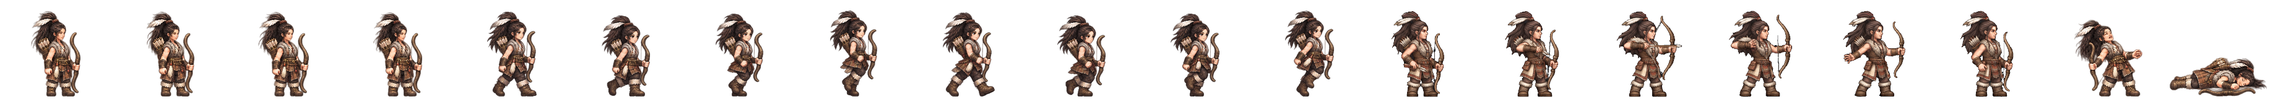
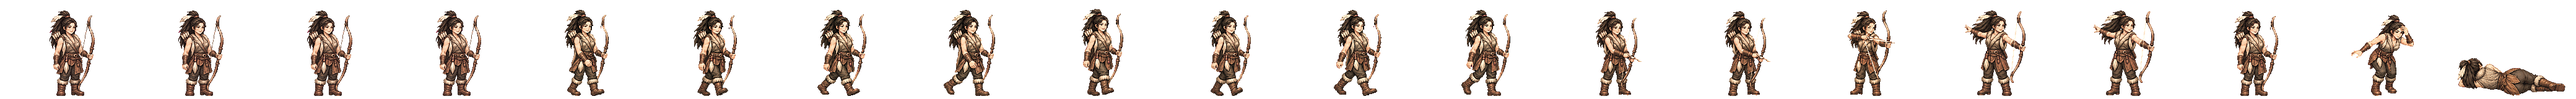
사로 단비 · 마가 달리 새 전투 띠를 게임에 (그림 API 판 + Codex 고친 칸)
- 단비: 걷기를 Codex 로 다시 받음(K3 · 그림 API 판은 시위가 점선으로 끊김). 새 판도 몇 칸은 시위가 흐리게 끊겨 보인다(게임 크기 가는 선) — 남은 흠
- 달리: 당김 칸 시위 고치기(K4)는 거절됐지만, 앞서 얹은 고친 칸을 게임 크기로 다시 보니 아랫시위가 활 아래끝에서 끝나 그대로 씀
- 맞음 칸은 활이 짧아져 뺌. 띠 판정 둘 다 합격(달리 경고: 공격 끝 −10px). 시험 2167 통과.

Claude-Session: https://claude.ai/code/session_01TRiuN7s6aDfSnaHxrkctmU

Changed region(s): [[0.0, 0.0938, 1.0, 1.0]]

diff --git a/src/realm/data/spritePx.ts b/src/realm/data/spritePx.ts
@@ -1,3 +1,3 @@
 /** public/realm/anim-px/manifest.json 의 사본 — tools/sprite-normalize.mjs 가 만든다 (손으로 고치지 말 것). 칸 [가로, 세로] · feet = 발 줄(칸 위에서 y) · bodyPx = 서 있는 몸 키 */
 import { expandManifest } from './sprite-manifest.ts'
-export const SPRITE_PX: Readonly<Record<string, { readonly cell: readonly [number, number]; readonly feet: number; readonly bodyPx: number; readonly kind: 'general' | 'soldier' | 'folk' | 'crowd'; readonly cells: number }>> = expandManifest<{ readonly cell: readonly [number, number]; readonly feet: number; readonly bodyPx: number; readonly kind: 'general' | 'soldier' | 'folk' | 'crowd'; readonly cells: number }>([{"cell":[166,128],"feet":126,"bodyPx":124,"kind":"soldier","cells":20},{"cell":[116,128],"feet":126,"bodyPx":117,"kind":"soldier","cells":20},{"cell":[127,128],"feet":126,"bodyPx":116,"kind":"soldier","cells":20},{"cell":[269,128],"feet":126,"bodyPx":126,"kind":"soldier","cells":20},{"cell":[503,128],"feet":126,"bodyPx":127,"kind":"soldier","cells":20},{"cell":[614,128],"feet":126,"bodyPx":126,"kind":"soldier","cells":20},{"cell":[200,160],"feet":156,"bodyPx":138,"kind":"general","cells":20},{"cell":[208,160],"feet":155,"bodyPx":138,"kind":"general","cells":20},{"cell":[208,160],"feet":154,"bodyPx":138,"kind":"general","cells":20},{"cell":[304,160],"feet":155,"bodyPx":135,"kind":"general","cells":20},{"cell":[184,160],"feet":156,"bodyPx":138,"kind":"general","cells":20},{"cell":[208,160],"feet":154,"bodyPx":136,"kind":"general","cells":20},{"cell":[232,160],"feet":156,"bodyPx":138,"kind":"general","cells":20},{"cell":[208,160],"feet":156,"bodyPx":138,"kind":"general","cells":20},{"cell":[168,160],"feet":156,"bodyPx":124,"kind":"general","cells":20},{"cell":[216,160],"feet":156,"bodyPx":130,"kind":"general","cells":20},{"cell":[200,160],"feet":156,"bodyPx":116,"kind":"general","cells":20},{"cell":[192,160],"feet":156,"bodyPx":138,"kind":"general","cells":20},{"cell":[200,160],"feet":156,"bodyPx":135,"kind":"general","cells":20},{"cell":[280,160],"feet":156,"bodyPx":138,"kind":"general","cells":20},{"cell":[232,160],"feet":155,"bodyPx":138,"kind":"general","cells":20},{"cell":[232,160],"feet":156,"bodyPx":134,"kind":"general","cells":20},{"cell":[144,160],"feet":156,"bodyPx":70,"kind":"general","cells":20},{"cell":[208,160],"feet":156,"bodyPx":70,"kind":"general","cells":20},{"cell":[192,160],"feet":156,"bodyPx":70,"kind":"general","cells":20},{"cell":[240,160],"feet":155,"bodyPx":138,"kind":"general","cells":20},{"cell":[160,160],"feet":156,"bodyPx":135,"kind":"general","cells":20},{"cell":[192,160],"feet":156,"bodyPx":128,"kind":"general","cells":20},{"cell":[224,160],"feet":155,"bodyPx":138,"kind":"general","cells":20},{"cell":[232,160],"feet":156,"bodyPx":139,"kind":"general","cells":20},{"cell":[216,160],"feet":156,"bodyPx":138,"kind":"general","cells":20},{"cell":[208,160],"feet":156,"bodyPx":134,"kind":"general","cells":20},{"cell":[176,160],"feet":156,"bodyPx":130,"kind":"general","cells":20},{"cell":[248,160],"feet":156,"bodyPx":138,"kind":"general","cells":20},{"cell":[248,160],"feet":155,"bodyPx":138,"kind":"general","cells":20},{"cell":[192,160],"feet":155,"bodyPx":138,"kind":"general","cells":20},{"cell":[192,160],"feet":156,"bodyPx":124,"kind":"general","cells":20},{"cell":[208,160],"feet":154,"bodyPx":131,"kind":"general","cells":20},{"cell":[256,160],"feet":156,"bodyPx":138,"kind":"general","cells":20},{"cell":[240,160],"feet":156,"bodyPx":138,"kind":"general","cells":20},{"cell":[232,160],"feet":156,"bodyPx":73,"kind":"general","cells":20},{"cell":[256,160],"feet":155,"bodyPx":138,"kind":"general","cells":20},{"cell":[264,160],"feet":156,"bodyPx":138,"kind":"general","cells":20},{"cell":[224,160],"feet":156,"bodyPx":138,"kind":"general","cells":20},{"cell":[224,160],"feet":156,"bodyPx":128,"kind":"general","cells":20},{"cell":[176,160],"feet":156,"bodyPx":129,"kind":"general","cells":20},{"cell":[208,160],"feet":154,"bodyPx":139,"kind":"general","cells":20},{"cell":[208,160],"feet":156,"bodyPx":132,"kind":"general","cells":20},{"cell":[208,160],"feet":154,"bodyPx":137,"kind":"general","cells":20},{"cell":[184,160],"feet":156,"bodyPx":122,"kind":"general","cells":20},{"cell":[176,160],"feet":156,"bodyPx":138,"kind":"general","cells":20},{"cell":[280,160],"feet":155,"bodyPx":133,"kind":"general","cells":20},{"cell":[176,160],"feet":156,"bodyPx":70,"kind":"general","cells":20},{"cell":[186,128],"feet":126,"bodyPx":127,"kind":"soldier","cells":20},{"cell":[298,128],"feet":126,"bodyPx":126,"kind":"soldier","cells":20},{"cell":[82,128],"feet":126,"bodyPx":114,"kind":"folk","cells":8},{"cell":[134,128],"feet":126,"bodyPx":119,"kind":"soldier","cells":20},{"cell":[380,128],"feet":126,"bodyPx":124,"kind":"soldier","cells":20},{"cell":[114,128],"feet":126,"bodyPx":115,"kind":"soldier","cells":20},{"cell":[122,128],"feet":126,"bodyPx":114,"kind":"soldier","cells":20},{"cell":[254,128],"feet":126,"bodyPx":128,"kind":"soldier","cells":20},{"cell":[438,128],"feet":126,"bodyPx":126,"kind":"soldier","cells":20},{"cell":[88,128],"feet":126,"bodyPx":113,"kind":"folk","cells":8},{"cell":[100,128],"feet":126,"bodyPx":115,"kind":"folk","cells":8},{"cell":[108,128],"feet":126,"bodyPx":115,"kind":"folk","cells":8},{"cell":[63,128],"feet":126,"bodyPx":113,"kind":"folk","cells":8},{"cell":[69,96],"feet":96,"bodyPx":96,"kind":"crowd","cells":1},{"cell":[54,96],"feet":96,"bodyPx":96,"kind":"crowd","cells":1},{"cell":[47,96],"feet":96,"bodyPx":96,"kind":"crowd","cells":1},{"cell":[49,96],"feet":96,"bodyPx":96,"kind":"crowd","cells":1},{"cell":[57,96],"feet":96,"bodyPx":96,"kind":"crowd","cells":1},{"cell":[55,96],"feet":96,"bodyPx":96,"kind":"crowd","cells":1},{"cell":[45,96],"feet":96,"bodyPx":96,"kind":"crowd","cells":1},{"cell":[53,96],"feet":96,"bodyPx":96,"kind":"crowd","cells":1},{"cell":[64,96],"feet":96,"bodyPx":96,"kind":"crowd","cells":1},{"cell":[184,160],"feet":156,"bodyPx":124,"kind":"general","cells":20},{"cell":[184,160],"feet":156,"bodyPx":134,"kind":"general","cells":20},{"cell":[224,160],"feet":156,"bodyPx":133,"kind":"general","cells":20},{"cell":[192,160],"feet":156,"bodyPx":135,"kind":"general","cells":20},{"cell":[184,160],"feet":156,"bodyPx":137,"kind":"general","cells":20},{"cell":[216,160],"feet":156,"bodyPx":134,"kind":"general","cells":20},{"cell":[216,160],"feet":156,"bodyPx":132,"kind":"general","cells":20},{"cell":[288,160],"feet":156,"bodyPx":138,"kind":"general","cells":20},{"cell":[192,160],"feet":156,"bodyPx":118,"kind":"general","cells":20},{"cell":[208,160],"feet":154,"bodyPx":134,"kind":"general","cells":20},{"cell":[208,160],"feet":154,"bodyPx":128,"kind":"general","cells":20},{"cell":[240,160],"feet":156,"bodyPx":128,"kind":"general","cells":20},{"cell":[184,160],"feet":156,"bodyPx":132,"kind":"general","cells":20},{"cell":[208,160],"feet":156,"bodyPx":123,"kind":"general","cells":20},{"cell":[176,160],"feet":156,"bodyPx":116,"kind":"general","cells":20},{"cell":[272,160],"feet":156,"bodyPx":138,"kind":"general","cells":20},{"cell":[176,160],"feet":156,"bodyPx":122,"kind":"general","cells":20},{"cell":[232,160],"feet":156,"bodyPx":127,"kind":"general","cells":20},{"cell":[168,160],"feet":156,"bodyPx":138,"kind":"general","cells":20},{"cell":[176,160],"feet":156,"bodyPx":137,"kind":"general","cells":20},{"cell":[184,160],"feet":156,"bodyPx":133,"kind":"general","cells":20}],[["axe",0],["bandit-chief",1],["bandit-club",2],["boat",3],["bow",4],["crossbow",5],["gen-adogan",6],["gen-alpyeong",7],["gen-ara",8],["gen-areum",8],["gen-aryeong",9],["gen-bakdal",6],["gen-baram",8],["gen-bdanbi",10],["gen-beom",11],["gen-beombal",8],["gen-beomi",8],["gen-bira",12],["gen-biryu",13],["gen-budeul",8],["gen-byeol",8],["gen-daemusin",14],["gen-daeso",15],["gen-dallae2",10],["gen-dalli",10],["gen-damul",16],["gen-danbi",13],["gen-dangung",17],["gen-darae",18],["gen-dokmudeom",7],["gen-duman",19],["gen-eomni",20],["gen-eureum",21],["gen-g-bow",22],["gen-g-spear",23],["gen-g-sword",24],["gen-gaennae",6],["gen-gamsil",25],["gen-gaon",26],["gen-geota",13],["gen-geumbawi",10],["gen-geumha",27],["gen-goeun",13],["gen-gom",28],["gen-gomok",13],["gen-gureum",25],["gen-guryema",17],["gen-gwaeyu",12],["gen-haebi",8],["gen-haedal",6],["gen-haesol",29],["gen-halla",7],["gen-heo",8],["gen-hneoul",10],["gen-hogong",30],["gen-hojin",13],["gen-horselord",31],["gen-hwalmi",32],["gen-hyeokgeose",17],["gen-hyeopbo",6],["gen-irang",8],["gen-jibaekho",33],["gen-jinha",34],["gen-jita",35],["gen-jumong",36],["gen-keundol",7],["gen-maehwa",37],["gen-maenun",17],["gen-malgalgi",38],["gen-mari",39],["gen-maro",33],["gen-maryeo",13],["gen-mdallae",29],["gen-mir",6],["gen-mount",40],["gen-mulbeom",41],["gen-mulsae",30],["gen-musoe",30],["gen-noeul",8],["gen-nuri",42],["gen-ocheongan",43],["gen-odi",8],["gen-odogan",6],["gen-ogan",17],["gen-oi",44],["gen-olddaeso",21],["gen-onjo",45],["gen-pidogan",13],["gen-sagong",46],["gen-sdallae",6],["gen-sincheongan",30],["gen-singwigan",30],["gen-sinneoul",8],["gen-sobeol",20],["gen-soebi",6],["gen-soebo",47],["gen-soenun",33],["gen-sogeumbi",48],["gen-songbi",43],["gen-songyang",49],["gen-sori",50],["gen-soseono",51],["gen-suro",17],["gen-tahae",6],["gen-tneoul",8],["gen-w-bow",22],["gen-w-spear",52],["gen-waechief",13],["gen-wan",30],["gen-yeodogan",13],["gen-yucheongan",13],["gen-yusugan",33],["horse",53],["marine",54],["migrant",55],["militia",56],["pike",57],["pirate-captain",58],["pirate-sword",59],["shield",60],["spear",61],["villager-builder",62],["villager-farmer",63],["villager-porter",64],["villager-woman",65],["crowd-b1",66],["crowd-b2",67],["crowd-b3",68],["crowd-b4",69],["crowd-b5",70],["crowd-b6",71],["crowd-f1",66],["crowd-f2",71],["crowd-f3",72],["crowd-f4",73],["crowd-f5",66],["crowd-f6",74],["gen-dalbit",13],["gen-base-g-07-drunk-warrior",17],["gen-base-g-40-anya-adan",13],["gen-base-w-13-young-archer",8],["gen-base-g-03-sea-trader",39],["gen-base-w-10-pirate-captain",46],["gen-base-w-64-miri-dallae",46],["gen-base-g-41-goja-bau",39],["gen-base-g-42-dokro-garam",42],["gen-base-g-09-farmer-conscript",30],["gen-base-w-02-goguryeo-lady",30],["gen-base-w-17-mahan-pearl-diver",8],["gen-base-g-17-saro-isageum",47],["gen-base-g-18-daegaya-king",75],["gen-base-g-35-dabeol-dalgu",13],["gen-base-g-19-sabeol-veteran",30],["gen-base-w-23-usisan-whale-queen",8],["gen-base-g-36-gammun-gamdol",43],["gen-base-g-20-samul-sea-lord",38],["gen-base-g-37-eumjeup-jeup",10],["gen-base-g-38-chopal-palmae",17],["gen-base-w-75-daegaya-soemoe",17],["gen-base-g-45-dabeol-deulgae",10],["gen-base-g-04-jinhan-giant",13],["gen-base-g-08-veteran",13],["gen-base-w-18-jinhan-salt-widow",8],["gen-base-w-12-court-dancer",76],["gen-base-w-83-gyeonji-beodeul",77],["gen-base-w-05-baekje-queen",78],["gen-base-w-21-baekje-court-dancer",10],["gen-base-g-01-master-smith",79],["gen-base-g-93-jomun-solgae",32],["gen-base-g-57-bihwa-neup",39],["gen-base-w-72-eumjeup-beol",8],["gen-base-w-102-garak-dana",46],["gen-base-g-68-baekje-onnuri",13],["gen-base-w-27-mokji-jinha",6],["gen-base-g-22-ungcheon-gomnae",6],["gen-base-g-23-sangdang-soedal",13],["gen-base-g-24-wansan-onsan",6],["gen-base-g-25-balla-keunmoe",30],["gen-base-g-61-heomcheuk-bawi",30],["gen-base-g-88-wander-soeul",43],["gen-base-w-14-feast-spy",6],["gen-base-g-12-silla-youth",80],["gen-base-w-08-mahan-warrior",8],["gen-base-g-62-beonye-hanul",39],["gen-base-g-63-heomcheuk-beogeum",13],["gen-base-g-84-wander-seoneul",13],["gen-base-w-50-siljik-mulga",30],["gen-base-g-46-uga-nureongso",30],["gen-base-w-80-usan-gangchi",46],["gen-base-g-47-guga-sanyanggae",30],["gen-base-w-76-gampyeong-baetsagong",8],["gen-base-g-05-mahan-chieftain",81],["gen-base-g-58-usan-uhae",13],["gen-base-g-27-maek-maekdol",13],["gen-base-w-53-hwanna-gabi",46],["gen-base-w-29-golpo-janmul",33],["gen-base-g-53-baekje-haeru",6],["gen-base-w-71-yeonna-neoul",8],["gen-base-w-79-yangmaek-solmae",8],["gen-base-w-34-chopal-deulme",8],["gen-base-g-44-maga-malgup",82],["gen-base-w-31-dabeol-dalbit",46],["gen-base-g-51-biryuna-mulgyeol",43],["gen-base-g-48-gwanna-musoe",13],["gen-base-g-32-uga-sodu",12],["gen-base-g-49-goguryeo-sona",83],["gen-base-g-30-gwanna-soemoe",43],["gen-base-g-52-tamna-oreum",10],["gen-base-g-29-yeonna-myeongsol",36],["gen-base-w-56-dongokjeo-sogeum",84],["gen-base-g-54-mokji-mahan",12],["gen-base-g-33-jeoga-metdol",17],["gen-base-w-36-baekje-maena",8],["gen-base-w-38-sangdang-bulmae",6],["gen-base-w-39-gosaburi-galmae",8],["gen-base-w-40-mujin-munui",47],["gen-base-w-41-hwanna-beodeul",85],["gen-base-w-43-uga-nuri",38],["gen-base-w-45-tamna-oreumbi",10],["gen-base-g-60-golbeol-golgae",10],["gen-base-g-61-apdok-ap",30],["gen-base-g-62-gammun-gamnamu",6],["gen-base-g-63-chopal-yeoul",33],["gen-base-g-64-michuhol-sogeumkkun",39],["gen-base-g-65-sangdang-soemangchi",43],["gen-base-g-66-geonma-malbalgup",86],["gen-base-g-67-gosaburi-buri",87],["gen-base-g-68-mujin-bitgoeul",10],["gen-base-g-69-goryong-yong",43],["gen-base-g-70-siljik-pado",39],["gen-base-w-81-byeokjin-byeolbit",8],["gen-base-w-46-geonma-maru",8],["gen-base-w-48-mujin-mudeung",8],["gen-base-g-26-gampyeong-gaetbeol",12],["gen-base-g-60-eupcha-hangyeol",88],["gen-base-g-15-shaman-man",30],["gen-base-g-85-wander-ure",33],["gen-base-g-43-hwanna-amnok",13],["gen-base-g-50-bullae-gwaha",78],["gen-base-g-55-saro-bakdal",13],["gen-base-g-56-haseulla-gwahama",6],["gen-base-w-06-buyeo-huntress",48],["gen-base-w-22-dongye-tiger-huntress",8],["gen-base-w-25-bihwa-priestess",30],["gen-base-w-24-apdok-queen",10],["gen-base-w-61-iseo-sinae",13],["gen-base-w-26-iseo-tomboy-general",8],["gen-base-g-59-yangmaek-maekson",89],["gen-aw1-haebi",43],["gen-aw1-soseono",90],["gen-aw1-gamsil",10],["gen-aw1-mir",50],["gen-aw1-dangung",6],["gen-aw1-ara",43],["gen-aw1-jumong",91],["gen-aw1-onjo",92],["gen-aw1-base-w-83-gyeonji-beodeul",17],["gen-aw1-heo",42],["gen-aw1-base-g-38-chopal-palmae",6],["gen-aw1-base-w-25-bihwa-priestess",76],["gen-aw1-sori",93],["gen-aw1-gomok",6],["gen-aw1-irang",17],["gen-aw1-budeul",93],["gen-aw1-gom",39],["gen-aw1-sdallae",6],["gen-aw1-base-w-13-young-archer",6],["gen-aw1-base-w-36-baekje-maena",94],["gen-aw1-base-g-09-farmer-conscript",42],["gen-aw1-base-w-02-goguryeo-lady",95],["gen-aw1-haedal",10],["gen-aw1-hogong",6],["gen-aw1-maehwa",50],["gen-aw1-base-w-06-buyeo-huntress",12],["gen-aw1-base-w-08-mahan-warrior",43],["gen-aw1-base-w-29-golpo-janmul",43],["gen-aw1-base-w-31-dabeol-dalbit",17],["gen-aw1-base-w-38-sangdang-bulmae",93],["gen-aw1-bira",30],["gen-aw1-base-w-53-hwanna-gabi",93],["gen-aw1-base-w-56-dongokjeo-sogeum",50],["gen-aw1-base-w-72-eumjeup-beol",17],["gen-aw1-bdanbi",93],["gen-aw1-beom",10],["gen-aw1-beombal",10],["gen-aw1-byeol",17],["gen-aw1-dalli",50],["gen-aw1-malgalgi",33],["gen-aw1-sincheongan",30]])
+export const SPRITE_PX: Readonly<Record<string, { readonly cell: readonly [number, number]; readonly feet: number; readonly bodyPx: number; readonly kind: 'general' | 'soldier' | 'folk' | 'crowd'; readonly cells: number }>> = expandManifest<{ readonly cell: readonly [number, number]; readonly feet: number; readonly bodyPx: number; readonly kind: 'general' | 'soldier' | 'folk' | 'crowd'; readonly cells: number }>([{"cell":[166,128],"feet":126,"bodyPx":124,"kind":"soldier","cells":20},{"cell":[116,128],"feet":126,"bodyPx":117,"kind":"soldier","cells":20},{"cell":[127,128],"feet":126,"bodyPx":116,"kind":"soldier","cells":20},{"cell":[269,128],"feet":126,"bodyPx":126,"kind":"soldier","cells":20},{"cell":[503,128],"feet":126,"bodyPx":127,"kind":"soldier","cells":20},{"cell":[614,128],"feet":126,"bodyPx":126,"kind":"soldier","cells":20},{"cell":[200,160],"feet":156,"bodyPx":138,"kind":"general","cells":20},{"cell":[208,160],"feet":155,"bodyPx":138,"kind":"general","cells":20},{"cell":[208,160],"feet":154,"bodyPx":138,"kind":"general","cells":20},{"cell":[304,160],"feet":155,"bodyPx":135,"kind":"general","cells":20},{"cell":[184,160],"feet":156,"bodyPx":138,"kind":"general","cells":20},{"cell":[208,160],"feet":154,"bodyPx":136,"kind":"general","cells":20},{"cell":[232,160],"feet":156,"bodyPx":138,"kind":"general","cells":20},{"cell":[208,160],"feet":156,"bodyPx":138,"kind":"general","cells":20},{"cell":[168,160],"feet":156,"bodyPx":124,"kind":"general","cells":20},{"cell":[216,160],"feet":156,"bodyPx":130,"kind":"general","cells":20},{"cell":[200,160],"feet":156,"bodyPx":116,"kind":"general","cells":20},{"cell":[192,160],"feet":156,"bodyPx":138,"kind":"general","cells":20},{"cell":[200,160],"feet":156,"bodyPx":135,"kind":"general","cells":20},{"cell":[280,160],"feet":156,"bodyPx":138,"kind":"general","cells":20},{"cell":[232,160],"feet":155,"bodyPx":138,"kind":"general","cells":20},{"cell":[232,160],"feet":156,"bodyPx":134,"kind":"general","cells":20},{"cell":[144,160],"feet":156,"bodyPx":70,"kind":"general","cells":20},{"cell":[208,160],"feet":156,"bodyPx":70,"kind":"general","cells":20},{"cell":[192,160],"feet":156,"bodyPx":70,"kind":"general","cells":20},{"cell":[240,160],"feet":155,"bodyPx":138,"kind":"general","cells":20},{"cell":[160,160],"feet":156,"bodyPx":135,"kind":"general","cells":20},{"cell":[192,160],"feet":156,"bodyPx":128,"kind":"general","cells":20},{"cell":[224,160],"feet":155,"bodyPx":138,"kind":"general","cells":20},{"cell":[232,160],"feet":156,"bodyPx":139,"kind":"general","cells":20},{"cell":[216,160],"feet":156,"bodyPx":138,"kind":"general","cells":20},{"cell":[208,160],"feet":156,"bodyPx":134,"kind":"general","cells":20},{"cell":[176,160],"feet":156,"bodyPx":130,"kind":"general","cells":20},{"cell":[248,160],"feet":156,"bodyPx":138,"kind":"general","cells":20},{"cell":[248,160],"feet":155,"bodyPx":138,"kind":"general","cells":20},{"cell":[192,160],"feet":155,"bodyPx":138,"kind":"general","cells":20},{"cell":[192,160],"feet":156,"bodyPx":124,"kind":"general","cells":20},{"cell":[208,160],"feet":154,"bodyPx":131,"kind":"general","cells":20},{"cell":[256,160],"feet":156,"bodyPx":138,"kind":"general","cells":20},{"cell":[240,160],"feet":156,"bodyPx":138,"kind":"general","cells":20},{"cell":[232,160],"feet":156,"bodyPx":73,"kind":"general","cells":20},{"cell":[256,160],"feet":155,"bodyPx":138,"kind":"general","cells":20},{"cell":[264,160],"feet":156,"bodyPx":138,"kind":"general","cells":20},{"cell":[224,160],"feet":156,"bodyPx":138,"kind":"general","cells":20},{"cell":[224,160],"feet":156,"bodyPx":128,"kind":"general","cells":20},{"cell":[176,160],"feet":156,"bodyPx":129,"kind":"general","cells":20},{"cell":[208,160],"feet":154,"bodyPx":139,"kind":"general","cells":20},{"cell":[208,160],"feet":156,"bodyPx":132,"kind":"general","cells":20},{"cell":[208,160],"feet":154,"bodyPx":137,"kind":"general","cells":20},{"cell":[184,160],"feet":156,"bodyPx":122,"kind":"general","cells":20},{"cell":[176,160],"feet":156,"bodyPx":138,"kind":"general","cells":20},{"cell":[280,160],"feet":155,"bodyPx":133,"kind":"general","cells":20},{"cell":[176,160],"feet":156,"bodyPx":70,"kind":"general","cells":20},{"cell":[186,128],"feet":126,"bodyPx":127,"kind":"soldier","cells":20},{"cell":[298,128],"feet":126,"bodyPx":126,"kind":"soldier","cells":20},{"cell":[82,128],"feet":126,"bodyPx":114,"kind":"folk","cells":8},{"cell":[134,128],"feet":126,"bodyPx":119,"kind":"soldier","cells":20},{"cell":[380,128],"feet":126,"bodyPx":124,"kind":"soldier","cells":20},{"cell":[114,128],"feet":126,"bodyPx":115,"kind":"soldier","cells":20},{"cell":[122,128],"feet":126,"bodyPx":114,"kind":"soldier","cells":20},{"cell":[254,128],"feet":126,"bodyPx":128,"kind":"soldier","cells":20},{"cell":[438,128],"feet":126,"bodyPx":126,"kind":"soldier","cells":20},{"cell":[88,128],"feet":126,"bodyPx":113,"kind":"folk","cells":8},{"cell":[100,128],"feet":126,"bodyPx":115,"kind":"folk","cells":8},{"cell":[108,128],"feet":126,"bodyPx":115,"kind":"folk","cells":8},{"cell":[63,128],"feet":126,"bodyPx":113,"kind":"folk","cells":8},{"cell":[69,96],"feet":96,"bodyPx":96,"kind":"crowd","cells":1},{"cell":[54,96],"feet":96,"bodyPx":96,"kind":"crowd","cells":1},{"cell":[47,96],"feet":96,"bodyPx":96,"kind":"crowd","cells":1},{"cell":[49,96],"feet":96,"bodyPx":96,"kind":"crowd","cells":1},{"cell":[57,96],"feet":96,"bodyPx":96,"kind":"crowd","cells":1},{"cell":[55,96],"feet":96,"bodyPx":96,"kind":"crowd","cells":1},{"cell":[45,96],"feet":96,"bodyPx":96,"kind":"crowd","cells":1},{"cell":[53,96],"feet":96,"bodyPx":96,"kind":"crowd","cells":1},{"cell":[64,96],"feet":96,"bodyPx":96,"kind":"crowd","cells":1},{"cell":[184,160],"feet":156,"bodyPx":124,"kind":"general","cells":20},{"cell":[184,160],"feet":156,"bodyPx":134,"kind":"general","cells":20},{"cell":[224,160],"feet":156,"bodyPx":133,"kind":"general","cells":20},{"cell":[192,160],"feet":156,"bodyPx":135,"kind":"general","cells":20},{"cell":[184,160],"feet":156,"bodyPx":137,"kind":"general","cells":20},{"cell":[216,160],"feet":156,"bodyPx":134,"kind":"general","cells":20},{"cell":[216,160],"feet":156,"bodyPx":132,"kind":"general","cells":20},{"cell":[288,160],"feet":156,"bodyPx":138,"kind":"general","cells":20},{"cell":[192,160],"feet":156,"bodyPx":118,"kind":"general","cells":20},{"cell":[208,160],"feet":154,"bodyPx":134,"kind":"general","cells":20},{"cell":[208,160],"feet":154,"bodyPx":128,"kind":"general","cells":20},{"cell":[240,160],"feet":156,"bodyPx":128,"kind":"general","cells":20},{"cell":[184,160],"feet":156,"bodyPx":132,"kind":"general","cells":20},{"cell":[208,160],"feet":156,"bodyPx":123,"kind":"general","cells":20},{"cell":[176,160],"feet":156,"bodyPx":116,"kind":"general","cells":20},{"cell":[272,160],"feet":156,"bodyPx":138,"kind":"general","cells":20},{"cell":[176,160],"feet":156,"bodyPx":122,"kind":"general","cells":20},{"cell":[232,160],"feet":156,"bodyPx":127,"kind":"general","cells":20},{"cell":[168,160],"feet":156,"bodyPx":138,"kind":"general","cells":20},{"cell":[176,160],"feet":156,"bodyPx":137,"kind":"general","cells":20},{"cell":[184,160],"feet":156,"bodyPx":133,"kind":"general","cells":20}],[["axe",0],["bandit-chief",1],["bandit-club",2],["boat",3],["bow",4],["crossbow",5],["gen-adogan",6],["gen-alpyeong",7],["gen-ara",8],["gen-areum",8],["gen-aryeong",9],["gen-bakdal",6],["gen-baram",8],["gen-bdanbi",10],["gen-beom",11],["gen-beombal",8],["gen-beomi",8],["gen-bira",12],["gen-biryu",13],["gen-budeul",8],["gen-byeol",8],["gen-daemusin",14],["gen-daeso",15],["gen-dallae2",10],["gen-dalli",8],["gen-damul",16],["gen-danbi",8],["gen-dangung",17],["gen-darae",18],["gen-dokmudeom",7],["gen-duman",19],["gen-eomni",20],["gen-eureum",21],["gen-g-bow",22],["gen-g-spear",23],["gen-g-sword",24],["gen-gaennae",6],["gen-gamsil",25],["gen-gaon",26],["gen-geota",13],["gen-geumbawi",10],["gen-geumha",27],["gen-goeun",13],["gen-gom",28],["gen-gomok",13],["gen-gureum",25],["gen-guryema",17],["gen-gwaeyu",12],["gen-haebi",8],["gen-haedal",6],["gen-haesol",29],["gen-halla",7],["gen-heo",8],["gen-hneoul",10],["gen-hogong",30],["gen-hojin",13],["gen-horselord",31],["gen-hwalmi",32],["gen-hyeokgeose",17],["gen-hyeopbo",6],["gen-irang",8],["gen-jibaekho",33],["gen-jinha",34],["gen-jita",35],["gen-jumong",36],["gen-keundol",7],["gen-maehwa",37],["gen-maenun",17],["gen-malgalgi",38],["gen-mari",39],["gen-maro",33],["gen-maryeo",13],["gen-mdallae",29],["gen-mir",6],["gen-mount",40],["gen-mulbeom",41],["gen-mulsae",30],["gen-musoe",30],["gen-noeul",8],["gen-nuri",42],["gen-ocheongan",43],["gen-odi",8],["gen-odogan",6],["gen-ogan",17],["gen-oi",44],["gen-olddaeso",21],["gen-onjo",45],["gen-pidogan",13],["gen-sagong",46],["gen-sdallae",6],["gen-sincheongan",30],["gen-singwigan",30],["gen-sinneoul",8],["gen-sobeol",20],["gen-soebi",6],["gen-soebo",47],["gen-soenun",33],["gen-sogeumbi",48],["gen-songbi",43],["gen-songyang",49],["gen-sori",50],["gen-soseono",51],["gen-suro",17],["gen-tahae",6],["gen-tneoul",8],["gen-w-bow",22],["gen-w-spear",52],["gen-waechief",13],["gen-wan",30],["gen-yeodogan",13],["gen-yucheongan",13],["gen-yusugan",33],["horse",53],["marine",54],["migrant",55],["militia",56],["pike",57],["pirate-captain",58],["pirate-sword",59],["shield",60],["spear",61],["villager-builder",62],["villager-farmer",63],["villager-porter",64],["villager-woman",65],["crowd-b1",66],["crowd-b2",67],["crowd-b3",68],["crowd-b4",69],["crowd-b5",70],["crowd-b6",71],["crowd-f1",66],["crowd-f2",71],["crowd-f3",72],["crowd-f4",73],["crowd-f5",66],["crowd-f6",74],["gen-dalbit",13],["gen-base-g-07-drunk-warrior",17],["gen-base-g-40-anya-adan",13],["gen-base-w-13-young-archer",8],["gen-base-g-03-sea-trader",39],["gen-base-w-10-pirate-captain",46],["gen-base-w-64-miri-dallae",46],["gen-base-g-41-goja-bau",39],["gen-base-g-42-dokro-garam",42],["gen-base-g-09-farmer-conscript",30],["gen-base-w-02-goguryeo-lady",30],["gen-base-w-17-mahan-pearl-diver",8],["gen-base-g-17-saro-isageum",47],["gen-base-g-18-daegaya-king",75],["gen-base-g-35-dabeol-dalgu",13],["gen-base-g-19-sabeol-veteran",30],["gen-base-w-23-usisan-whale-queen",8],["gen-base-g-36-gammun-gamdol",43],["gen-base-g-20-samul-sea-lord",38],["gen-base-g-37-eumjeup-jeup",10],["gen-base-g-38-chopal-palmae",17],["gen-base-w-75-daegaya-soemoe",17],["gen-base-g-45-dabeol-deulgae",10],["gen-base-g-04-jinhan-giant",13],["gen-base-g-08-veteran",13],["gen-base-w-18-jinhan-salt-widow",8],["gen-base-w-12-court-dancer",76],["gen-base-w-83-gyeonji-beodeul",77],["gen-base-w-05-baekje-queen",78],["gen-base-w-21-baekje-court-dancer",10],["gen-base-g-01-master-smith",79],["gen-base-g-93-jomun-solgae",32],["gen-base-g-57-bihwa-neup",39],["gen-base-w-72-eumjeup-beol",8],["gen-base-w-102-garak-dana",46],["gen-base-g-68-baekje-onnuri",13],["gen-base-w-27-mokji-jinha",6],["gen-base-g-22-ungcheon-gomnae",6],["gen-base-g-23-sangdang-soedal",13],["gen-base-g-24-wansan-onsan",6],["gen-base-g-25-balla-keunmoe",30],["gen-base-g-61-heomcheuk-bawi",30],["gen-base-g-88-wander-soeul",43],["gen-base-w-14-feast-spy",6],["gen-base-g-12-silla-youth",80],["gen-base-w-08-mahan-warrior",8],["gen-base-g-62-beonye-hanul",39],["gen-base-g-63-heomcheuk-beogeum",13],["gen-base-g-84-wander-seoneul",13],["gen-base-w-50-siljik-mulga",30],["gen-base-g-46-uga-nureongso",30],["gen-base-w-80-usan-gangchi",46],["gen-base-g-47-guga-sanyanggae",30],["gen-base-w-76-gampyeong-baetsagong",8],["gen-base-g-05-mahan-chieftain",81],["gen-base-g-58-usan-uhae",13],["gen-base-g-27-maek-maekdol",13],["gen-base-w-53-hwanna-gabi",46],["gen-base-w-29-golpo-janmul",33],["gen-base-g-53-baekje-haeru",6],["gen-base-w-71-yeonna-neoul",8],["gen-base-w-79-yangmaek-solmae",8],["gen-base-w-34-chopal-deulme",8],["gen-base-g-44-maga-malgup",82],["gen-base-w-31-dabeol-dalbit",46],["gen-base-g-51-biryuna-mulgyeol",43],["gen-base-g-48-gwanna-musoe",13],["gen-base-g-32-uga-sodu",12],["gen-base-g-49-goguryeo-sona",83],["gen-base-g-30-gwanna-soemoe",43],["gen-base-g-52-tamna-oreum",10],["gen-base-g-29-yeonna-myeongsol",36],["gen-base-w-56-dongokjeo-sogeum",84],["gen-base-g-54-mokji-mahan",12],["gen-base-g-33-jeoga-metdol",17],["gen-base-w-36-baekje-maena",8],["gen-base-w-38-sangdang-bulmae",6],["gen-base-w-39-gosaburi-galmae",8],["gen-base-w-40-mujin-munui",47],["gen-base-w-41-hwanna-beodeul",85],["gen-base-w-43-uga-nuri",38],["gen-base-w-45-tamna-oreumbi",10],["gen-base-g-60-golbeol-golgae",10],["gen-base-g-61-apdok-ap",30],["gen-base-g-62-gammun-gamnamu",6],["gen-base-g-63-chopal-yeoul",33],["gen-base-g-64-michuhol-sogeumkkun",39],["gen-base-g-65-sangdang-soemangchi",43],["gen-base-g-66-geonma-malbalgup",86],["gen-base-g-67-gosaburi-buri",87],["gen-base-g-68-mujin-bitgoeul",10],["gen-base-g-69-goryong-yong",43],["gen-base-g-70-siljik-pado",39],["gen-base-w-81-byeokjin-byeolbit",8],["gen-base-w-46-geonma-maru",8],["gen-base-w-48-mujin-mudeung",8],["gen-base-g-26-gampyeong-gaetbeol",12],["gen-base-g-60-eupcha-hangyeol",88],["gen-base-g-15-shaman-man",30],["gen-base-g-85-wander-ure",33],["gen-base-g-43-hwanna-amnok",13],["gen-base-g-50-bullae-gwaha",78],["gen-base-g-55-saro-bakdal",13],["gen-base-g-56-haseulla-gwahama",6],["gen-base-w-06-buyeo-huntress",48],["gen-base-w-22-dongye-tiger-huntress",8],["gen-base-w-25-bihwa-priestess",30],["gen-base-w-24-apdok-queen",10],["gen-base-w-61-iseo-sinae",13],["gen-base-w-26-iseo-tomboy-general",8],["gen-base-g-59-yangmaek-maekson",89],["gen-aw1-haebi",43],["gen-aw1-soseono",90],["gen-aw1-gamsil",10],["gen-aw1-mir",50],["gen-aw1-dangung",6],["gen-aw1-ara",43],["gen-aw1-jumong",91],["gen-aw1-onjo",92],["gen-aw1-base-w-83-gyeonji-beodeul",17],["gen-aw1-heo",42],["gen-aw1-base-g-38-chopal-palmae",6],["gen-aw1-base-w-25-bihwa-priestess",76],["gen-aw1-sori",93],["gen-aw1-gomok",6],["gen-aw1-irang",17],["gen-aw1-budeul",93],["gen-aw1-gom",39],["gen-aw1-sdallae",6],["gen-aw1-base-w-13-young-archer",6],["gen-aw1-base-w-36-baekje-maena",94],["gen-aw1-base-g-09-farmer-conscript",42],["gen-aw1-base-w-02-goguryeo-lady",95],["gen-aw1-haedal",10],["gen-aw1-hogong",6],["gen-aw1-maehwa",50],["gen-aw1-base-w-06-buyeo-huntress",12],["gen-aw1-base-w-08-mahan-warrior",43],["gen-aw1-base-w-29-golpo-janmul",43],["gen-aw1-base-w-31-dabeol-dalbit",17],["gen-aw1-base-w-38-sangdang-bulmae",93],["gen-aw1-bira",30],["gen-aw1-base-w-53-hwanna-gabi",93],["gen-aw1-base-w-56-dongokjeo-sogeum",50],["gen-aw1-base-w-72-eumjeup-beol",17],["gen-aw1-bdanbi",93],["gen-aw1-beom",10],["gen-aw1-beombal",10],["gen-aw1-byeol",17],["gen-aw1-dalli",50],["gen-aw1-malgalgi",33],["gen-aw1-sincheongan",30]])

diff --git a/src/duel/view.ts b/src/duel/view.ts
@@ -100,7 +100,7 @@ const crowdFront = [1, 2, 3, 4, 5, 6].map((i) => img(`realm/duel/crowd/b${i}.png
 const crowdReady = (set: HTMLImageElement[]): boolean => set.every((im) => im.complete && im.naturalWidth > 0)
 const pxMode = cfg.px !== false && params.get('px') !== '0'
 /** 겨루기 전용 옛 띠(duel/sprites) 대신 열전과 같은 도트 띠(anim-px)를 쓰는 장수 — 두 판에서 같은 모습 · 서기 계획·쓰러지는 칸도 같다 (11-23 범 · 매화 · 달빛 · 11-24 해비 · 아룸) */
-const PX_DUEL: ReadonlySet<string> = new Set(['beom', 'maehwa', 'base-w-31-dabeol-dalbit', 'haebi', 'areum', 'base-w-13-young-archer', 'base-w-10-pirate-captain', 'base-w-17-mahan-pearl-diver', 'base-w-06-buyeo-huntress', 'base-w-64-miri-dallae', 'ara', 'base-w-22-dongye-tiger-huntress', 'noeul', 'sagong', 'sinneoul', 'heo', 'base-w-08-mahan-warrior', 'base-w-23-usisan-whale-queen', 'base-w-26-iseo-tomboy-general', 'base-w-72-eumjeup-beol', 'tneoul', 'odi', 'base-w-76-gampyeong-baetsagong', 'base-w-34-chopal-deulme', 'base-w-102-garak-dana', 'base-w-36-baekje-maena', 'base-w-56-dongokjeo-sogeum', 'budeul', 'base-w-53-hwanna-gabi', 'base-w-18-jinhan-salt-widow', 'beombal', 'irang', 'sogeumbi', 'baram', 'byeol', 'base-w-71-yeonna-neoul', 'base-w-39-gosaburi-galmae', 'base-w-41-hwanna-beodeul', 'base-w-79-yangmaek-solmae', 'base-w-46-geonma-maru', 'base-w-48-mujin-mudeung', 'base-w-80-usan-gangchi', 'base-w-81-byeokjin-byeolbit', 'beomi'])
+const PX_DUEL: ReadonlySet<string> = new Set(['beom', 'maehwa', 'base-w-31-dabeol-dalbit', 'haebi', 'areum', 'base-w-13-young-archer', 'base-w-10-pirate-captain', 'base-w-17-mahan-pearl-diver', 'base-w-06-buyeo-huntress', 'base-w-64-miri-dallae', 'ara', 'base-w-22-dongye-tiger-huntress', 'noeul', 'sagong', 'sinneoul', 'heo', 'base-w-08-mahan-warrior', 'base-w-23-usisan-whale-queen', 'base-w-26-iseo-tomboy-general', 'base-w-72-eumjeup-beol', 'tneoul', 'odi', 'base-w-76-gampyeong-baetsagong', 'base-w-34-chopal-deulme', 'base-w-102-garak-dana', 'base-w-36-baekje-maena', 'base-w-56-dongokjeo-sogeum', 'budeul', 'base-w-53-hwanna-gabi', 'base-w-18-jinhan-salt-widow', 'beombal', 'irang', 'sogeumbi', 'baram', 'byeol', 'base-w-71-yeonna-neoul', 'base-w-39-gosaburi-galmae', 'base-w-41-hwanna-beodeul', 'base-w-79-yangmaek-solmae', 'base-w-46-geonma-maru', 'base-w-48-mujin-mudeung', 'base-w-80-usan-gangchi', 'base-w-81-byeokjin-byeolbit', 'beomi', 'danbi', 'dalli'])
 /** 띠 그림 — 기본은 anim-px(도트 규격) 먼저, 없으면 옛 띠로 (img 의 onerror 가 갈아 끼운다) */
 const strip = (s: string): HTMLImageElement => pxMode
   ? DUEL_ATLASES[s] !== undefined && !PX_DUEL.has(s) ? img(`realm/duel/sprites/gen-${s}.png`, `realm/anim-px/gen-${s}.png`)

diff --git a/src/tune/params.ts b/src/tune/params.ts
@@ -1463,6 +1463,8 @@ export const HAEBI_IDLE = {
     'base-w-80-usan-gangchi': { cells: 38, base: [0, 1], hold: 2.4, fall: [18, 20, 21, 19], quirk: [22, 23, 24, 25], quirkTimes: [.3, .32, .4, .28], attack: { cells: [26, 27, 28, 29, 30, 31, 32, 33], times: [.09, .08, .11, .05, .15, .07, .08, .12], hit: 4 }, hurt: [34, 35], rise: [36, 37], xGeom: { h: 224, root: 92, foot: 216 } },
     'base-w-81-byeokjin-byeolbit': { cells: 38, base: [0, 1], hold: 2.4, fall: [18, 20, 21, 19], quirk: [22, 23, 24, 25], quirkTimes: [.3, .32, .4, .28], attack: { cells: [26, 27, 28, 29, 30, 31, 32, 33], times: [.09, .08, .11, .12, .12, .08, .08, .12], hit: 3 }, hurt: [34, 35], rise: [36, 37], xGeom: { h: 224, root: 92, foot: 216 } },
     beomi: { cells: 38, base: [0, 1], hold: 2.4, fall: [18, 20, 21, 19], quirk: [22, 23, 24, 25], quirkTimes: [.3, .32, .4, .28], attack: { cells: [26, 27, 28, 29, 30, 31, 32, 33], times: [.09, .08, .11, .12, .12, .08, .08, .12], hit: 3 }, hurt: [34, 35], rise: [36, 37], xGeom: { h: 224, root: 92, foot: 216 } },
+    danbi: { cells: 26, base: [0, 1], hold: 2.4, fall: [18, 20, 21, 19], quirk: [22, 23, 24, 25], quirkTimes: [.28, .3, .42, .25] },
+    dalli: { cells: 26, base: [0, 1], hold: 2.4, fall: [18, 20, 21, 19], quirk: [22, 23, 24, 25], quirkTimes: [.28, .3, .42, .25] },
   },
 } as const
 export const HAEBI_ANIM = {
